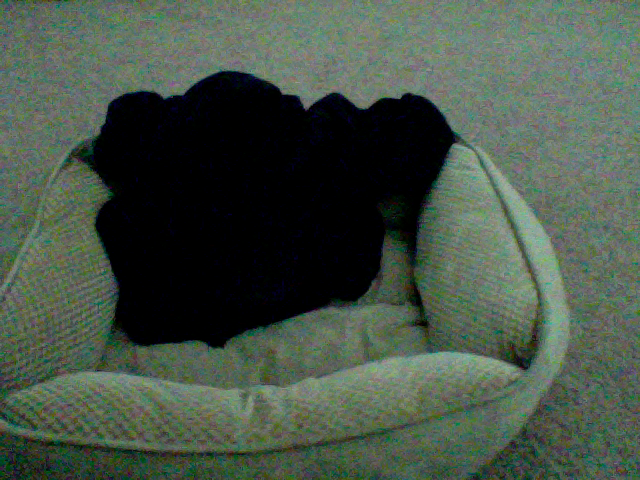
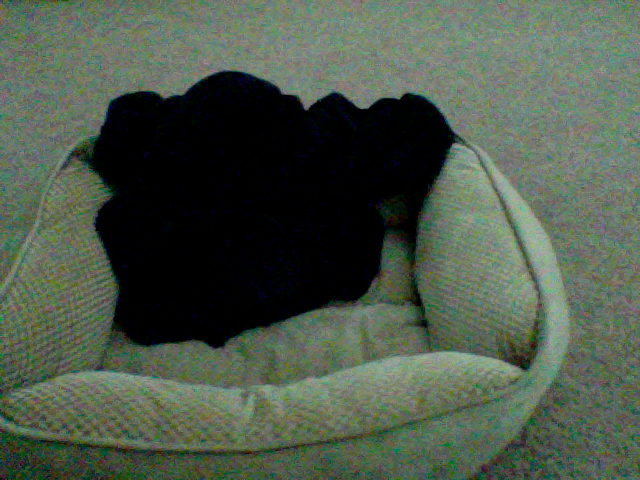
update at Month05Day08Time11:27

diff --git a/index.html b/index.html
@@ -39,8 +39,8 @@
       <!-- Example row of columns -->
       <div class="row">
         <div class="col-md-4">
-	<p>This picture was updated at Month05Day08Time11:26</p>
-		<img src="10_pic.png" />
+	<p>This picture was updated at Month05Day08Time11:27</p>
+		<img src="2_pic.png" />
         </div>
       </div>
 
